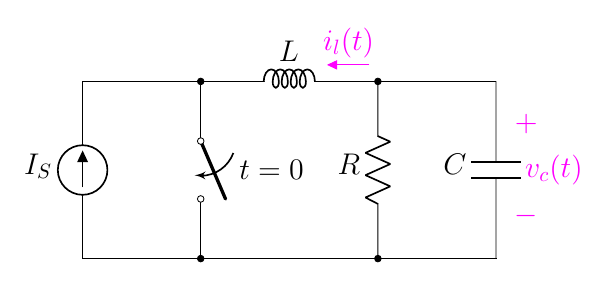
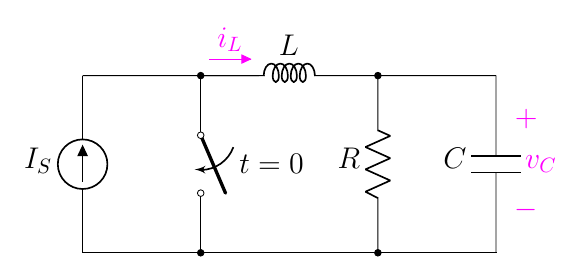
9.28

Changed region(s): [[0.0309, 0.0863, 0.9588, 0.9209], [0.3711, 0.1727, 0.433, 0.2302], [0.3711, 0.1151, 0.4021, 0.1727]]

diff --git a/2.7 Critical Damping/9.3 Critical Damping/9.28-8th(new).tex b/2.7 Critical Damping/9.3 Critical Damping/9.28-8th(new).tex
@@ -30,10 +30,10 @@
     \node at (3.2,1.5)[]{$t=0$};
 
     \draw[magenta](7.2,0.5)
-        to[open, v>=$v_c(t)$] ++(0,2);
+        to[open, v>=$v_C$] ++(0,2);
 
-    \draw[circuitikz/current arrow color=magenta](5,3)
-        to[open,f>_=$\color{magenta}{i_l(t)}$] ++(-2.4,0);
+    \draw[circuitikz/current arrow color=magenta](2,3)
+        to[open,f>^=$\color{magenta}{i_L}$] ++(2.4,0);
 
 \end{circuitikz}
 \end{document}
